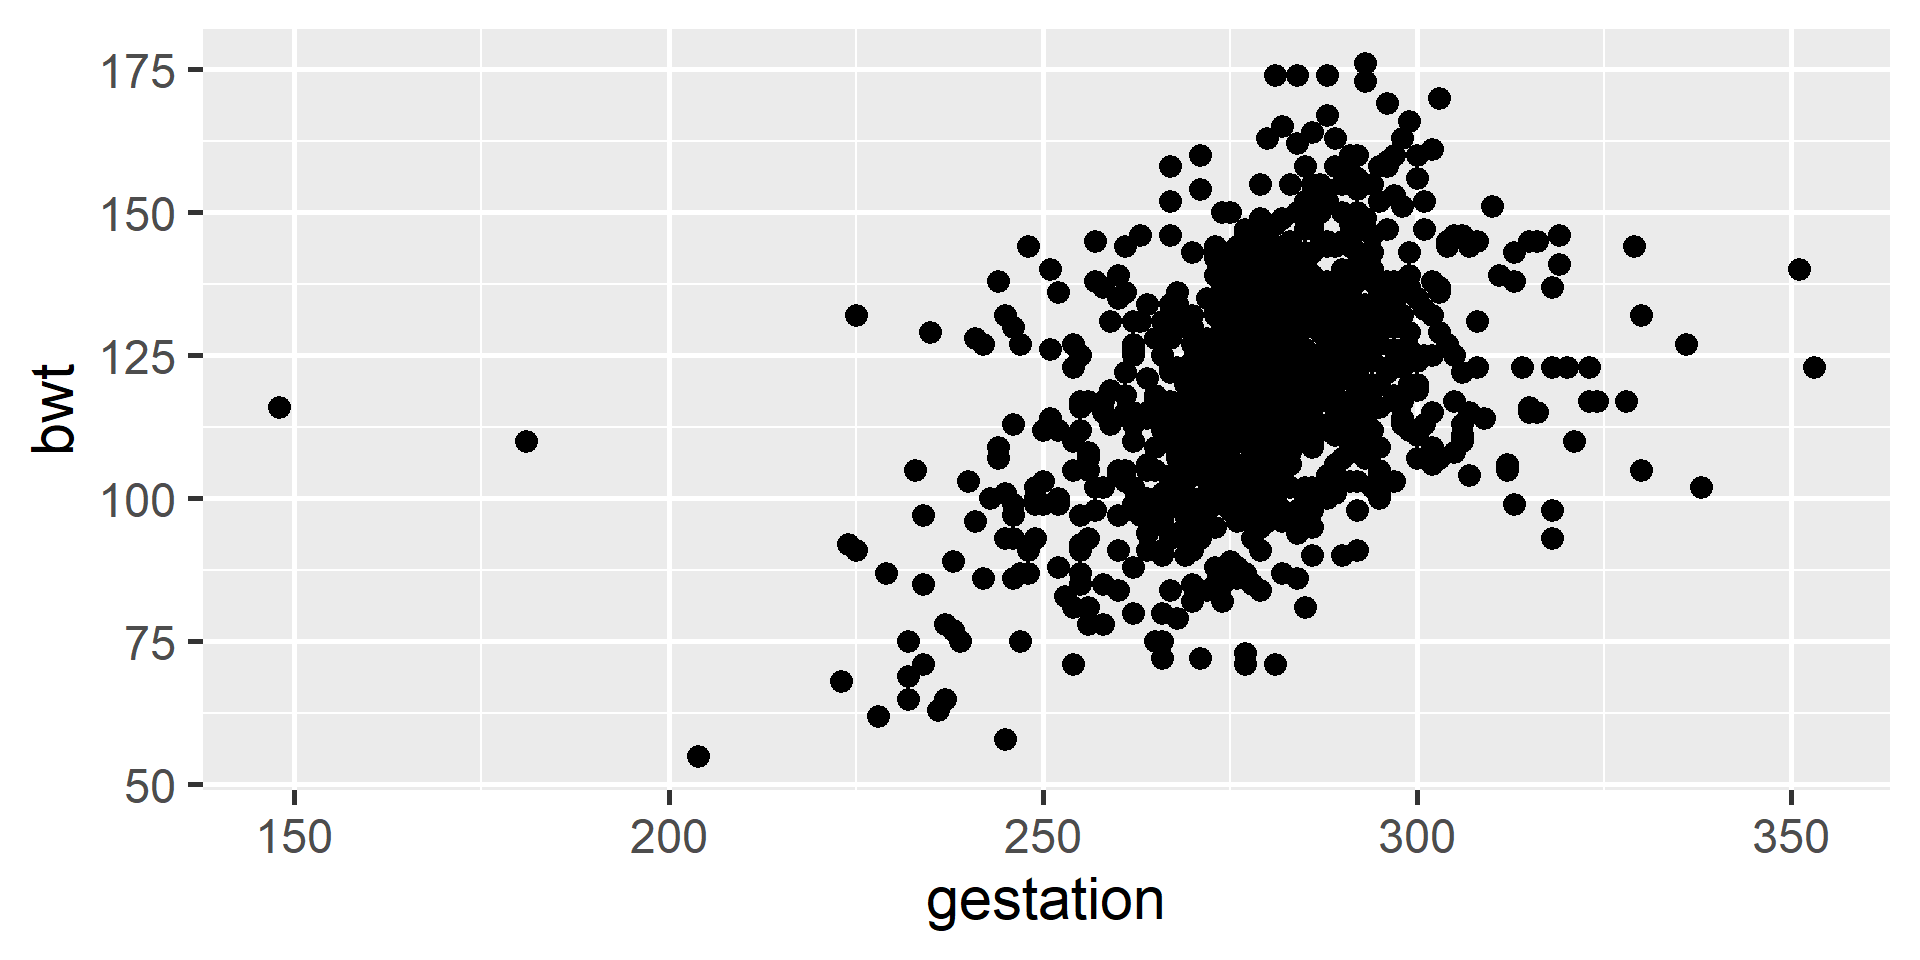
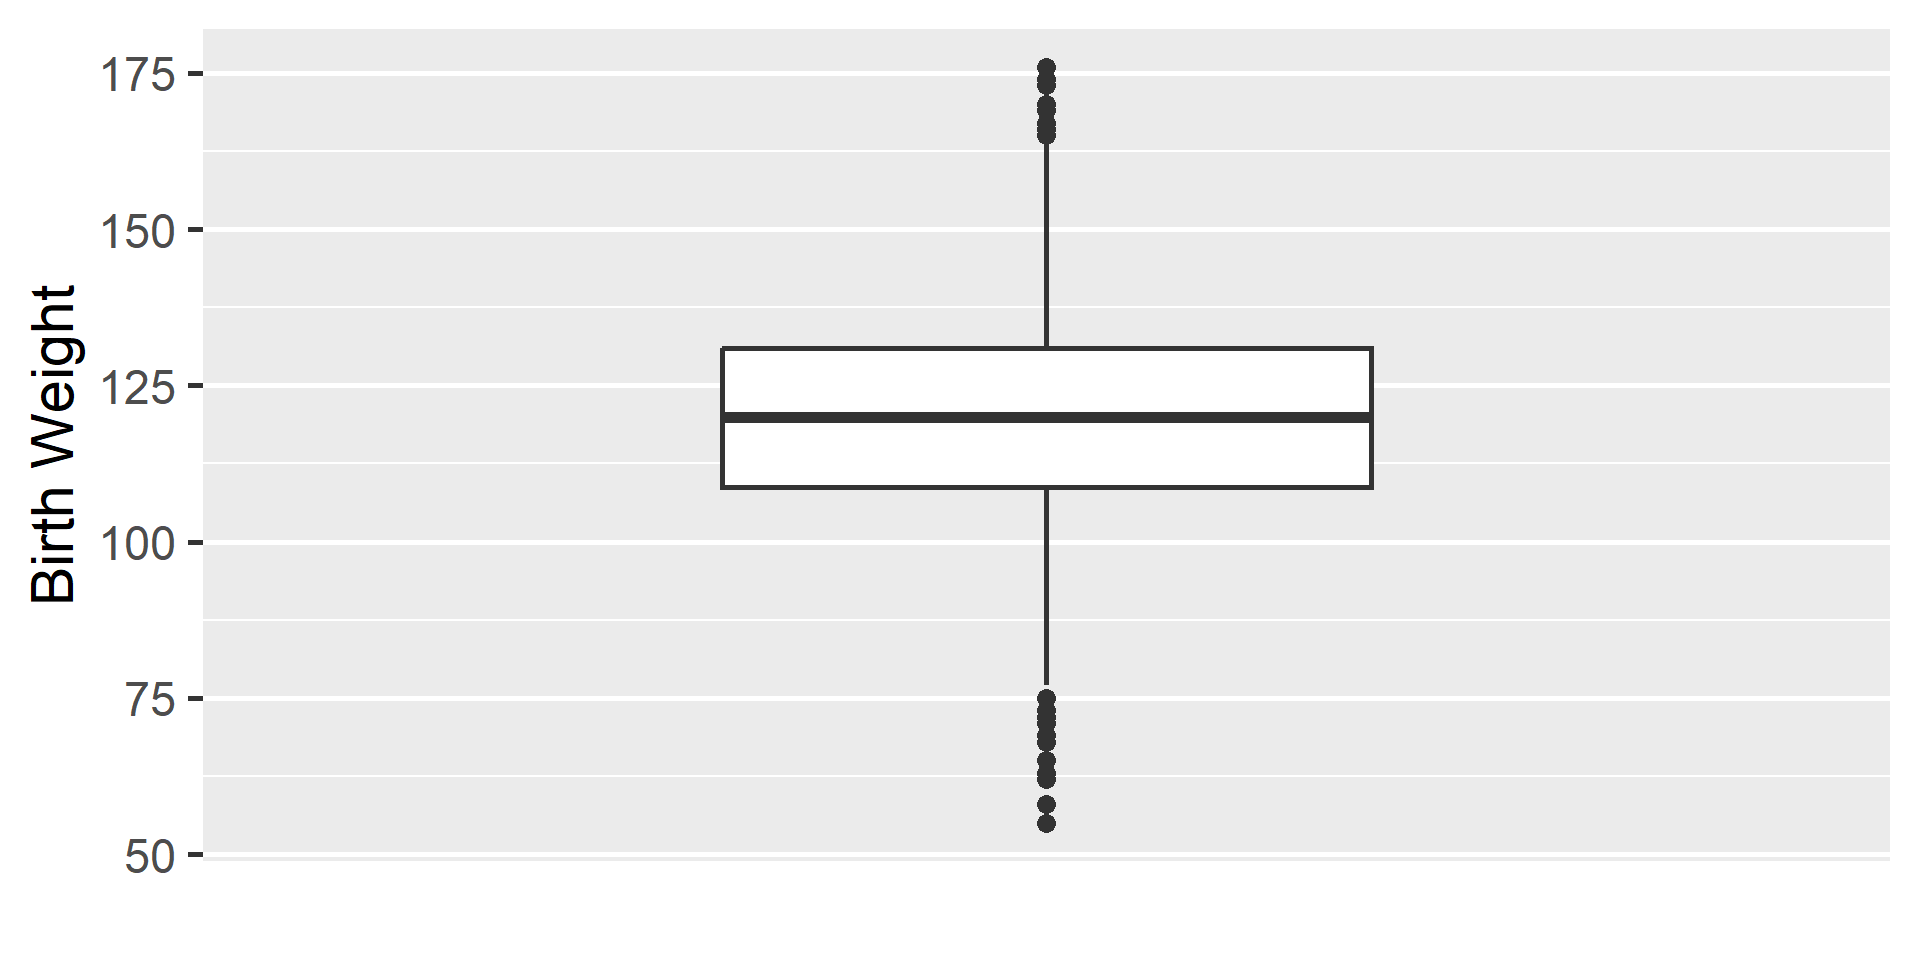
Added points overlayed to box plot

diff --git a/week-03/lec-03-data-viz-foundations.html b/week-03/lec-03-data-viz-foundations.html
@@ -624,10 +624,7 @@ $ smoke     &lt;lgl&gt; FALSE, FALSE, TRUE, FALSE, TRUE, FALSE, FALSE, FALSE, FA
 </div>
 </div>
 </div><div class="column" style="width:50%;">
-<ul>
-<li>The horizontal line in the box represents the median.</li>
-<li>The box represents the middle 50% of the data with Q3 on the upper end and Q1 on the lower end.</li>
-</ul>
+<p>Let’s look at what a single box plot is!</p>
 </div></div>
 </section>
 <section id="understanding-each-box-1" class="slide level2">
@@ -645,8 +642,47 @@ $ smoke     &lt;lgl&gt; FALSE, FALSE, TRUE, FALSE, TRUE, FALSE, FALSE, FALSE, FA
 </div>
 </div><div class="column" style="width:50%;">
 <ul>
+<li>The horizontal line in the box represents the median.</li>
+<li>The box represents the middle 50% of the data with Q3 on the upper end and Q1 on the lower end.</li>
+</ul>
+</div></div>
+</section>
+<section id="understanding-each-box-2" class="slide level2">
+<h2>Understanding Each Box</h2>
+<div class="columns">
+<div class="column" style="width:50%;">
+<div class="cell">
+<div class="cell-output-display">
+<div>
+<figure>
+<p><img data-src="lec-03-data-viz-foundations_files/figure-revealjs/unnamed-chunk-31-1.png" width="960"></p>
+</figure>
+</div>
+</div>
+</div>
+</div><div class="column" style="width:50%;">
+<ul>
 <li>Whiskers extend from the box. They can extend up to 1.5 IQR away from the box (i.e.&nbsp;away from Q1 and Q3).</li>
 <li>The points are potential outliers that represent babies with really low or high birth weight.</li>
+</ul>
+</div></div>
+</section>
+<section id="understanding-each-box-3" class="slide level2">
+<h2>Understanding Each Box</h2>
+<div class="columns">
+<div class="column" style="width:50%;">
+<div class="cell">
+<div class="cell-output-display">
+<div>
+<figure>
+<p><img data-src="lec-03-data-viz-foundations_files/figure-revealjs/unnamed-chunk-32-1.png" width="960"></p>
+</figure>
+</div>
+</div>
+</div>
+</div><div class="column" style="width:50%;">
+<ul>
+<li>Here I overlayed the values, so you can see a boxplot provides summary statistics about how the data is distributed</li>
 </ul>
 </div></div>
 </section>
@@ -663,7 +699,7 @@ $ smoke     &lt;lgl&gt; FALSE, FALSE, TRUE, FALSE, TRUE, FALSE, FALSE, FALSE, FA
 <div class="cell-output-display">
 <div class="quarto-figure quarto-figure-center">
 <figure>
-<p><img data-src="lec-03-data-viz-foundations_files/figure-revealjs/unnamed-chunk-31-1.png" class="quarto-figure quarto-figure-center" width="960"></p>
+<p><img data-src="lec-03-data-viz-foundations_files/figure-revealjs/unnamed-chunk-33-1.png" class="quarto-figure quarto-figure-center" width="960"></p>
 </figure>
 </div>
 </div>
@@ -673,7 +709,7 @@ $ smoke     &lt;lgl&gt; FALSE, FALSE, TRUE, FALSE, TRUE, FALSE, FALSE, FALSE, FA
 <section id="linear-relationship" class="slide level2">
 <h2>Linear Relationship</h2>
 
-<img data-src="lec-03-data-viz-foundations_files/figure-revealjs/unnamed-chunk-32-1.png" class="quarto-figure quarto-figure-center r-stretch" width="960"><p>Later on we will learn statistical modeling, during which we will numerically define the relationship between gestation and birth weight. For now we can say that this relationship looks positive and moderate.</p>
+<img data-src="lec-03-data-viz-foundations_files/figure-revealjs/unnamed-chunk-34-1.png" class="quarto-figure quarto-figure-center r-stretch" width="960"><p>Later on we will learn statistical modeling, during which we will numerically define the relationship between gestation and birth weight. For now we can say that this relationship looks positive and moderate.</p>
 </section>
 <section id="meet-palmer-penguins" class="slide level2">
 <h2>Meet Palmer Penguins</h2>
@@ -708,7 +744,7 @@ $ year        &lt;int&gt; 2007, 2007, 2007, 2007, 2007, 2007, 2007, 2007, 2007, 
 <span id="cb20-2"><a href="" aria-label="2"></a>  <span class="fu">geom_point</span>()</span></code></pre></div><button title="Copy to Clipboard" class="code-copy-button"><i class="bi"></i></button></div>
 
 </div>
-<img data-src="lec-03-data-viz-foundations_files/figure-revealjs/unnamed-chunk-36-1.png" class="quarto-figure quarto-figure-center r-stretch" width="960"><p>We can use color to consider a third variable</p>
+<img data-src="lec-03-data-viz-foundations_files/figure-revealjs/unnamed-chunk-38-1.png" class="quarto-figure quarto-figure-center r-stretch" width="960"><p>We can use color to consider a third variable</p>
 </section>
 <section id="code-style" class="slide level2">
 <h2>code style</h2>
